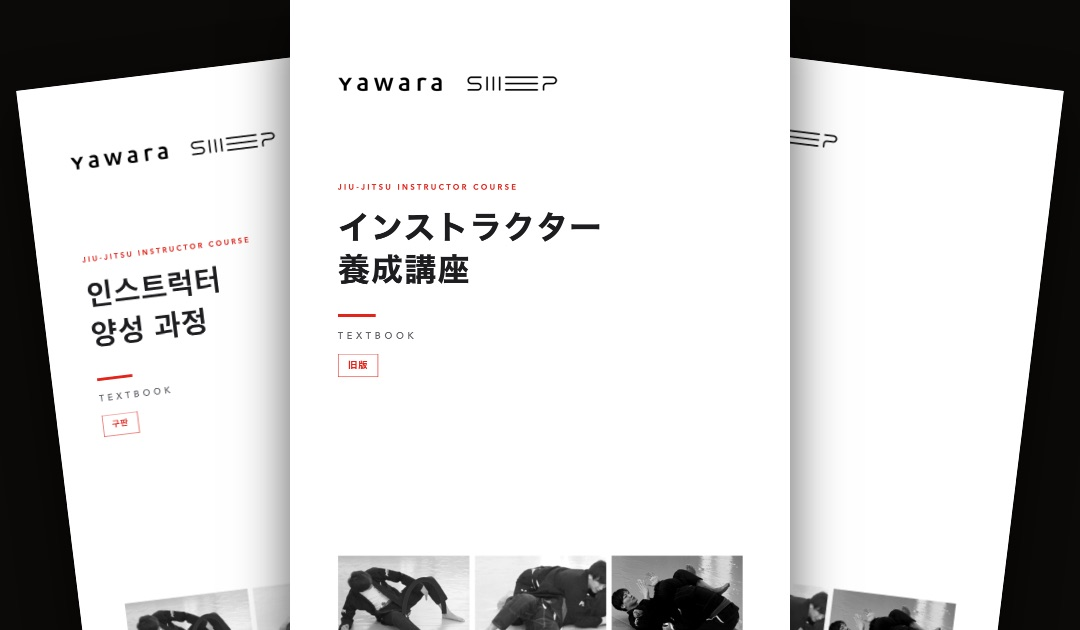
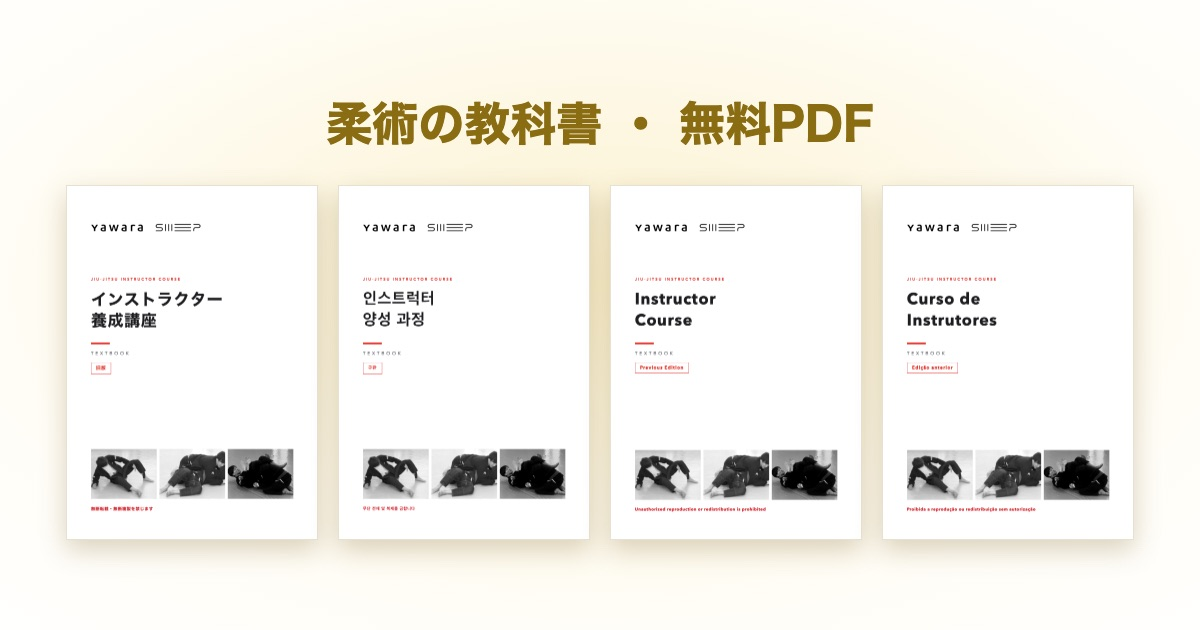
トップに教科書ページへのカードを追加し、教科書ページに4言語の検索用の説明を追加

diff --git a/index.html b/index.html
@@ -398,12 +398,21 @@
         </span>
       </a>
 
+      <a class="card" href="/textbook/">
+        <img class="thumb" src="/assets/textbook.jpg" alt="インストラクター養成講座の教科書の表紙。日本語・韓国語・英語・ポルトガル語の4冊">
+        <span>
+          <p class="eyebrow">05 ・ TEXTBOOK</p>
+          <h2>インストラクター養成講座 教科書<span class="arrow">→</span></h2>
+          <p>柔術の考え方、教え方、セオリー、技術、ドリルまで。養成講座の教科書（旧版）を、日本語・韓国語・英語・ポルトガル語のPDFで無料公開しています。</p>
+        </span>
+      </a>
+
       <p class="cat-label" id="cat-shigoto">道場のしごと</p>
 
       <a class="card" href="/shift/">
         <img class="thumb" src="/assets/shift.jpg" alt="月次シフト表の画面。タイムラインにスタッフの出勤バーとクラス枠が並ぶ">
         <span>
-          <p class="eyebrow">05 ・ SHIFT</p>
+          <p class="eyebrow">06 ・ SHIFT</p>
           <h2>月次シフト表<span class="arrow">→</span></h2>
           <p>2店舗のジムのシフトを、スマホで見やすいタイムラインに。日別・人別の切り替え、スタッフごとの色分け、直前の変更箇所のハイライトつき。毎月Excelから自動生成しています。</p>
           <span class="note">展示用サンプル・スタッフ名は仮名です</span>
@@ -413,7 +422,7 @@
       <a class="card" href="/hojokin/">
         <img class="thumb" src="/assets/hojokin.jpg" alt="補助金ページの画面。都道府県で絞り込める補助金の一覧">
         <span>
-          <p class="eyebrow">06 ・ HOJOKIN</p>
+          <p class="eyebrow">07 ・ HOJOKIN</p>
           <h2>道場が使える補助金<span class="arrow">→</span></h2>
           <p>マットの入れ替え、更衣室の改修、予約システムの導入、スタッフ採用。「これ、補助金出るのでは？」を探すための一覧です。国の公開データ（Jグランツ）から毎朝自動で集めて、都道府県別に絞り込めます。</p>
           <span class="note">毎日自動更新・出典 Jグランツ</span>
@@ -423,7 +432,7 @@
       <a class="card" href="/ryoshusho/">
         <img class="thumb" src="/assets/ryoshusho.jpg" alt="領収書のデジタル化のページ。スキャンした領収書の下に日付・金額・用途が書き込まれている">
         <span>
-          <p class="eyebrow">07 ・ RECEIPTS</p>
+          <p class="eyebrow">08 ・ RECEIPTS</p>
           <h2>領収書のデジタル化<span class="arrow">→</span></h2>
           <p>紙の領収書をスキャンして読み取り、カレンダーの予定と突き合わせて「誰と・何のために」まで画像に焼き込む手順。ファイル名だけで電子帳簿保存法の検索条件を満たします。連盟と会社で432枚をスキャンして、順に片付けています。</p>
         </span>
@@ -432,7 +441,7 @@
       <a class="card" href="/claudecode/">
         <img class="thumb" src="/assets/claudecode.jpg" alt="柔術道場のClaude Codeのページ。白帯から黒帯までの帯ごとに使い方が並ぶ">
         <span>
-          <p class="eyebrow">08 ・ CLAUDE CODE</p>
+          <p class="eyebrow">09 ・ CLAUDE CODE</p>
           <h2>柔術道場のClaude Code<span class="arrow">→</span></h2>
           <p>朝のやること一覧から、問い合わせの返信、会費の集計、大会の速報まで。このサイトを作ってきたAIに、道場の裏方仕事を毎日どう任せているか。白帯から黒帯までの段階に並べて、そのまま使える頼み方も付けました。</p>
         </span>
@@ -441,7 +450,7 @@
       <a class="card" href="/hajimekata/">
         <img class="thumb" src="/assets/hajimekata.jpg" alt="Claudeの始め方のページ。Chat・Cowork・Codeの使い分けと、始める順番が並ぶ">
         <span>
-          <p class="eyebrow">09 ・ START</p>
+          <p class="eyebrow">10 ・ START</p>
           <h2>Claudeの始め方<span class="arrow">→</span></h2>
           <p>インストールでつまずいた私が、1か月でやってきたこと。Chat・Cowork・Codeの使い分けから、「しつこく」やりきる最初の1つ、音声入力、毎月の作業を型にするまで。始める順番と、実際につまずいたところをまとめました。</p>
         </span>
@@ -450,7 +459,7 @@
       <a class="card" href="/claude-nyumon/">
         <img class="thumb" src="/assets/claude-nyumon.jpg" alt="パソコン初心者がClaudeを使いこなすまでのページ。パソコン選びから使いこなすまでが帯の色で5段階に並ぶ">
         <span>
-          <p class="eyebrow">10 ・ NYUMON</p>
+          <p class="eyebrow">11 ・ NYUMON</p>
           <h2>パソコン初心者がClaudeを使いこなすまで<span class="arrow">→</span></h2>
           <p>パソコン選びから、Claudeの登録、スマホとの連携、最初に試すと良い頼み方、使いこなすコツまで。パソコンをほとんど触ったことがない人でも、柔術の帯のように一段ずつ進めるように並べました。</p>
         </span>
@@ -461,7 +470,7 @@
       <a class="card" href="/salon/">
         <img class="thumb" src="/assets/salon.jpg" alt="サロンの顧客管理の画面。お客さまのカルテに累計・来店回数・誕生日・肌のメモが並ぶ">
         <span>
-          <p class="eyebrow">11 ・ SALON</p>
+          <p class="eyebrow">12 ・ SALON</p>
           <h2>サロンの顧客管理<span class="arrow">→</span></h2>
           <p>「誰に、いくら」をスマホで打つだけで、月の売上とお客さまのカルテが育っていく。知り合いのエステサロンに頼まれて作りました。記録は暗証番号で暗号化して、スマホの外には一切出しません。</p>
           <span class="note">画面はサンプルデータ・お名前は仮名です</span>
@@ -471,7 +480,7 @@
       <a class="card" href="/yoyaku/">
         <img class="thumb" src="/assets/workshop.jpg?v=2" alt="ワークショップ参加申込みの画面。日時ごとの残り席数が並ぶ">
         <span>
-          <p class="eyebrow">12 ・ WORKSHOP</p>
+          <p class="eyebrow">13 ・ WORKSHOP</p>
           <h2>ワークショップの申込み受付<span class="arrow">→</span></h2>
           <p>アートフェスのワークショップを、Googleフォームの代わりに受け付けるページ。日時ごとに残りの席が見えて、満席になると選べなくなります。申し込んだ人が、メールのリンクから自分でキャンセルもできます。知り合いのアート講座の団体に頼まれて作りました。</p>
         </span>
@@ -480,7 +489,7 @@
       <a class="card" href="/recipe/">
         <img class="thumb" src="/assets/recipe.jpg?v=3" alt="和食レシピ帖の画面。料理の写真つきのレシピが2列に並ぶ">
         <span>
-          <p class="eyebrow">13 ・ RECIPE</p>
+          <p class="eyebrow">14 ・ RECIPE</p>
           <h2>料理教室のレシピ帖<span class="arrow">→</span></h2>
           <p>お教室で配ってきた紙のレシピ約200品をスキャンして文字にし、携帯で「今日は何を作ろう」と材料から探せるレシピ帖に。会員だけが全文を読める仕組みも、サーバーを持たずに作りました。これからどうするかは、先生と相談して決めます。</p>
           <span class="note">展示用のダミーです・レシピは見本用の家庭料理、写真はAIで作ったもの、お教室の名前は伏せています</span>
@@ -500,7 +509,7 @@
       <a class="card" href="/goroku/">
         <img class="thumb" src="/assets/goroku.jpg" alt="良蔵語録のページ。金の線に続く明朝体の言葉が並ぶ">
         <span>
-          <p class="eyebrow">14 ・ GOROKU</p>
+          <p class="eyebrow">15 ・ GOROKU</p>
           <h2>良蔵語録<span class="arrow">→</span></h2>
           <p>畳の上や日々の会話で、ぽろっとこぼれた言葉たちを、そばで聞き集めた語録。「必死とは、必ず死ぬということ」「なければ、つくればいい」——少しずつ増えていきます。</p>
         </span>
@@ -509,7 +518,7 @@
       <a class="card" href="/toriatsukai/">
         <img class="thumb" src="/assets/toriatsukai.jpg" alt="良蔵取扱説明書のページ。家電の取説のような目次と製品仕様が並ぶ">
         <span>
-          <p class="eyebrow">15 ・ TORIATSUKAI</p>
+          <p class="eyebrow">16 ・ TORIATSUKAI</p>
           <h2>良蔵取扱説明書<span class="arrow">→</span></h2>
           <p>26歳で柔術を始めて、38歳で世界一。そんな人と毎日を過ごすための手引きを、取扱説明書の体裁でまとめました。朝はコーヒーを飲み終わるまでそっとしておくのがいちばんです。同じ体裁で、自分の取扱説明書もつくれます。</p>
         </span>
@@ -518,7 +527,7 @@
       <a class="card" href="/muratake/">
         <img class="thumb" src="/assets/muratake.jpg" alt="村田家のAmazon履歴。無添加の調味料や洗剤が並ぶリスト">
         <span>
-          <p class="eyebrow">16 ・ MURATAKE</p>
+          <p class="eyebrow">17 ・ MURATAKE</p>
           <h2>村田家のAmazon履歴<span class="arrow">→</span></h2>
           <p>調味料も洗剤も、村田家が実際に使っているものをAmazonの購入履歴からそのまま並べたカタログ。全部リアルな愛用品。ちなみにほぼ無添加です。</p>
         </span>
@@ -527,7 +536,7 @@
       <a class="card" href="/miso-ikura/">
         <img class="thumb" src="/assets/miso-ikura.jpg" alt="味噌いくら完全版ガイドのページ。鮭20匹・12時間・40本の数字が並ぶ">
         <span>
-          <p class="eyebrow">17 ・ MISO IKURA</p>
+          <p class="eyebrow">18 ・ MISO IKURA</p>
           <h2>味噌いくら完全版ガイド<span class="arrow">→</span></h2>
           <p>鮭20匹ぶんの筋子を、味噌いくらと醤油いくらに仕込む年に一度の大仕事。準備物の数から、51℃で洗うコツ、モチフキンで挟む味噌漬けの重ね方、いちばん美味しかった醤油の配合まで。来年の自分のための段取り帳です。</p>
         </span>
@@ -536,7 +545,7 @@
       <a class="card" href="/kondate/">
         <img class="thumb" src="/assets/kondate.jpg" alt="良蔵の献立のページ。曜日ごとの昼ごはんの一覧">
         <span>
-          <p class="eyebrow">18 ・ KONDATE</p>
+          <p class="eyebrow">19 ・ KONDATE</p>
           <h2>良蔵の献立<span class="arrow">→</span></h2>
           <p>朝は食べない、夜は外食。だから昼の一食がすべてです。本人が「食べる」と言ったものだけで一週間ぶんの昼ごはんを組んで、PFCの計算まで付けました。卵は7日とも、形を変えて入っています。グミも枝豆もハムも入っていません。</p>
         </span>

diff --git a/textbook/index.html b/textbook/index.html
@@ -11,15 +11,15 @@
   gtag('config', 'G-H79CRFSZFH');
 </script>
 
-<title>インストラクター養成講座 教科書（旧版）</title>
+<title>柔術の教科書（無料PDF）｜インストラクター養成講座・指導法｜BJJ Textbook / 주짓수 교재 / Apostila de jiu-jitsu</title>
 <link rel="icon" href="/favicon.ico" sizes="48x48">
 <link rel="icon" href="/assets/icon-192.png" type="image/png" sizes="192x192">
 <link rel="apple-touch-icon" href="/apple-touch-icon.png">
-<meta name="description" content="YAWARA・SWEEP インストラクター養成講座の教科書（旧版）。日本語・韓国語・英語・ポルトガル語のPDFを無料でダウンロードできます。">
+<meta name="description" content="ブラジリアン柔術の教科書を無料PDFで公開。柔術の指導法・教え方・理論・セオリー・ドリルを村田良蔵のインストラクター養成講座からまとめました。주짓수 교재 무료 PDF: 주짓수 지도법, 이론, 드릴. Free BJJ textbook PDF: how to teach jiu-jitsu, BJJ coaching, theory and drills. Apostila de jiu-jitsu grátis: como ensinar jiu-jitsu, teoria e drills.">
 <meta property="og:type" content="website">
 <meta property="og:url" content="https://jiujitsu.co.jp/textbook/">
 <meta property="og:title" content="インストラクター養成講座 教科書（旧版）">
-<meta property="og:description" content="日本語 / 한국어 / English / Português PDF. Free download.">
+<meta property="og:description" content="柔術の教科書を無料PDFで公開。日本語 / 한국어 / English / Português">
 <meta property="og:image" content="https://jiujitsu.co.jp/textbook/img/og.jpg">
 <meta name="twitter:card" content="summary_large_image">
 <link rel="preconnect" href="https://fonts.googleapis.com">
@@ -92,6 +92,7 @@
   .notice { color:#d0121b; font-weight:700; font-size:13px; letter-spacing:.06em; text-align:center; padding:9px 16px; line-height:1.5; }
   .notice span { display:inline-block; margin:0 11px; }
   .coming { margin:0 0 26px; border-left:2px solid var(--gold); padding:4px 0 4px 22px; font-size:16px; max-width:44em; }
+  .about { display:grid; grid-template-columns:1fr 1fr; gap:18px 32px; font-size:14px; line-height:1.85; }
   footer { margin-top:84px; border-top:1px solid var(--line); padding:26px 0 40px; color:var(--faint); font-size:13px; letter-spacing:.06em; }
 
   @media (max-width:820px) {
@@ -99,6 +100,7 @@
     .fan { order:-1; max-width:340px; }
     .lead { margin-left:auto; margin-right:auto; }
     .books, .chapters { grid-template-columns:1fr 1fr; }
+    .about { grid-template-columns:1fr; }
     .samples { grid-template-columns:1fr 1fr; }
   }
   @media (max-width:640px) {
@@ -198,6 +200,14 @@
   <h2 class="sec-label">SAMPLE</h2>
   <div class="samples">
     <img src="img/sample-1.jpg" alt="" loading="lazy"><img src="img/sample-2.jpg" alt="" loading="lazy"><img src="img/sample-3.jpg" alt="" loading="lazy"><img src="img/sample-4.jpg" alt="" loading="lazy">
+  </div>
+
+  <h2 class="sec-label">ABOUT</h2>
+  <div class="about">
+    <p lang="ja">ブラジリアン柔術の教科書です。村田良蔵のインストラクター養成講座で使った内容をもとに、柔術の指導法・教え方、柔術の理論（セオリー）、パスガード、ガード、サブミッション、基礎ドリルをまとめました。柔術のインストラクターや指導者を目指す方に向けた教科書を、無料のPDFで公開しています。</p>
+    <p lang="ko">브라질리언 주짓수 교재입니다. 무라타 료조의 인스트럭터 양성 과정을 바탕으로 주짓수 지도법, 주짓수 이론, 패스가드, 가드, 서브미션, 기초 드릴을 담았습니다. 주짓수 인스트럭터와 지도자를 목표로 하는 분을 위한 교재를 무료 PDF로 공개합니다.</p>
+    <p lang="en">A free Brazilian jiu-jitsu (BJJ) textbook in PDF. Based on Ryozo Murata's Instructor Course, this BJJ instructor manual covers how to teach jiu-jitsu, BJJ coaching, BJJ theory, guard passing, guard, submissions and BJJ drills.</p>
+    <p lang="pt">Apostila de jiu-jitsu gratuita em PDF. Baseado no Curso de Instrutores de Ryozo Murata, este livro de jiu-jitsu ensina como ensinar jiu-jitsu e reúne teoria do jiu-jitsu, passagem de guarda, guarda, finalizações e drills de jiu-jitsu para quem quer ser instrutor de jiu-jitsu.</p>
   </div>
 
   <footer>© YAWARA &amp; SWEEP</footer>
